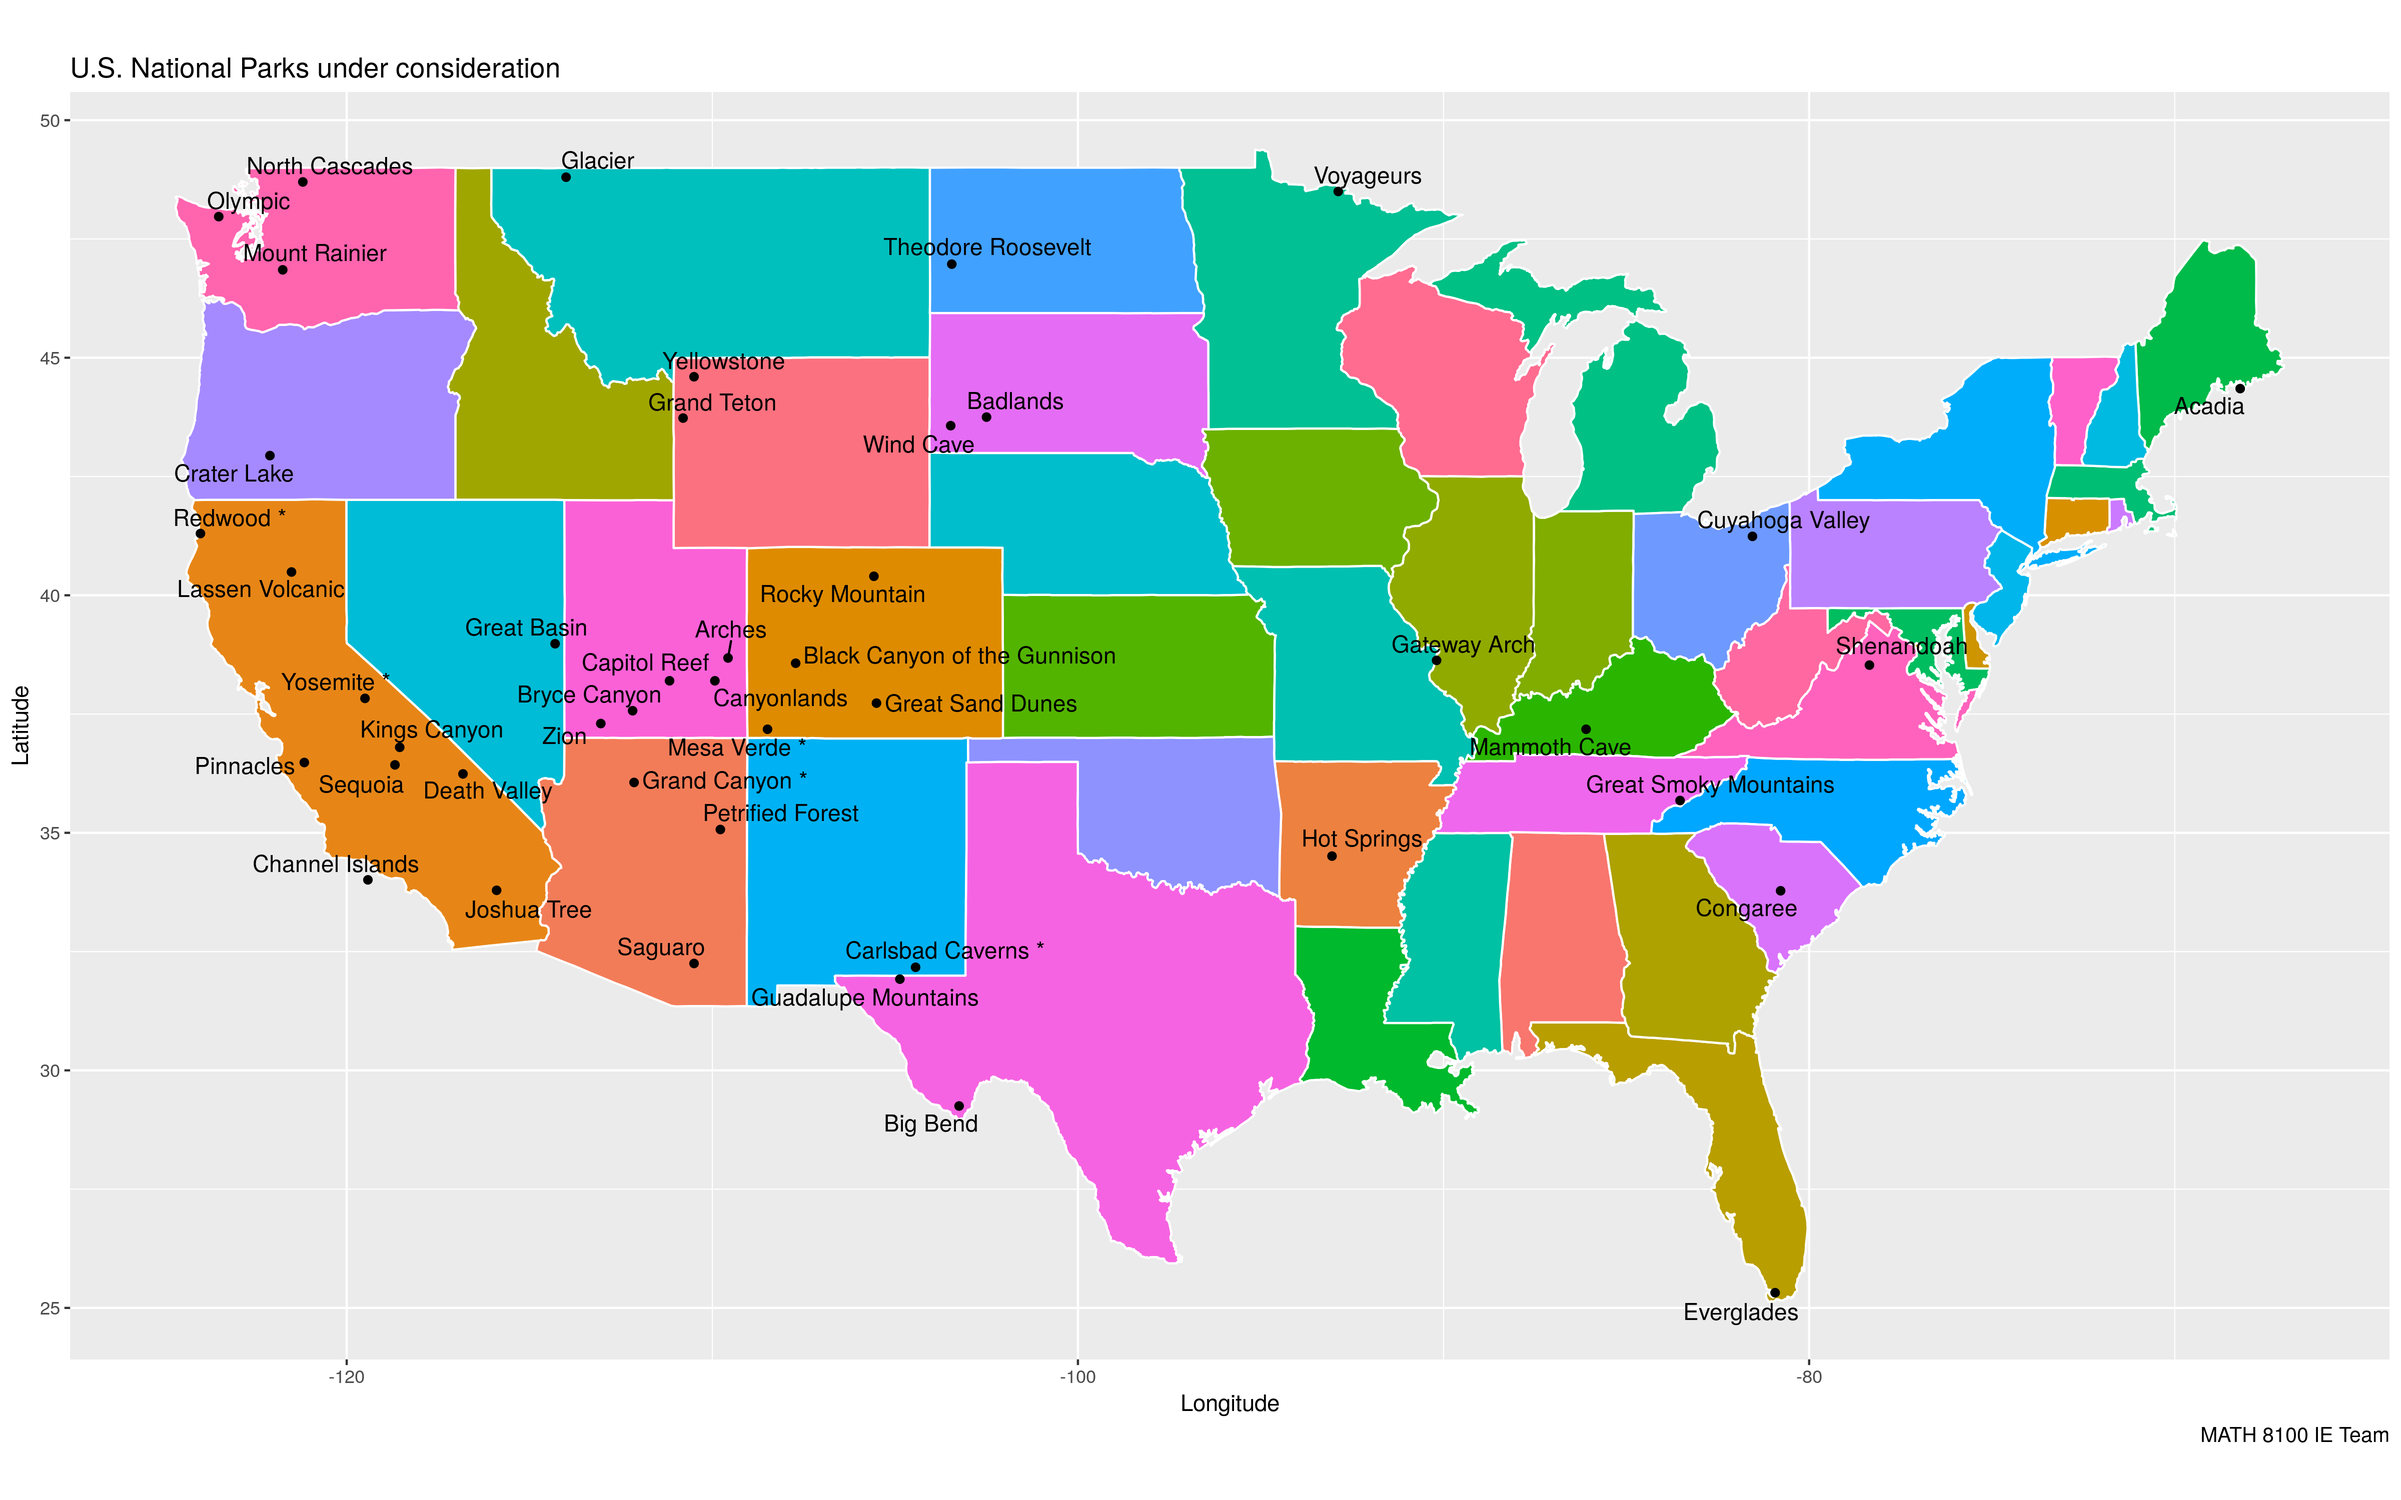
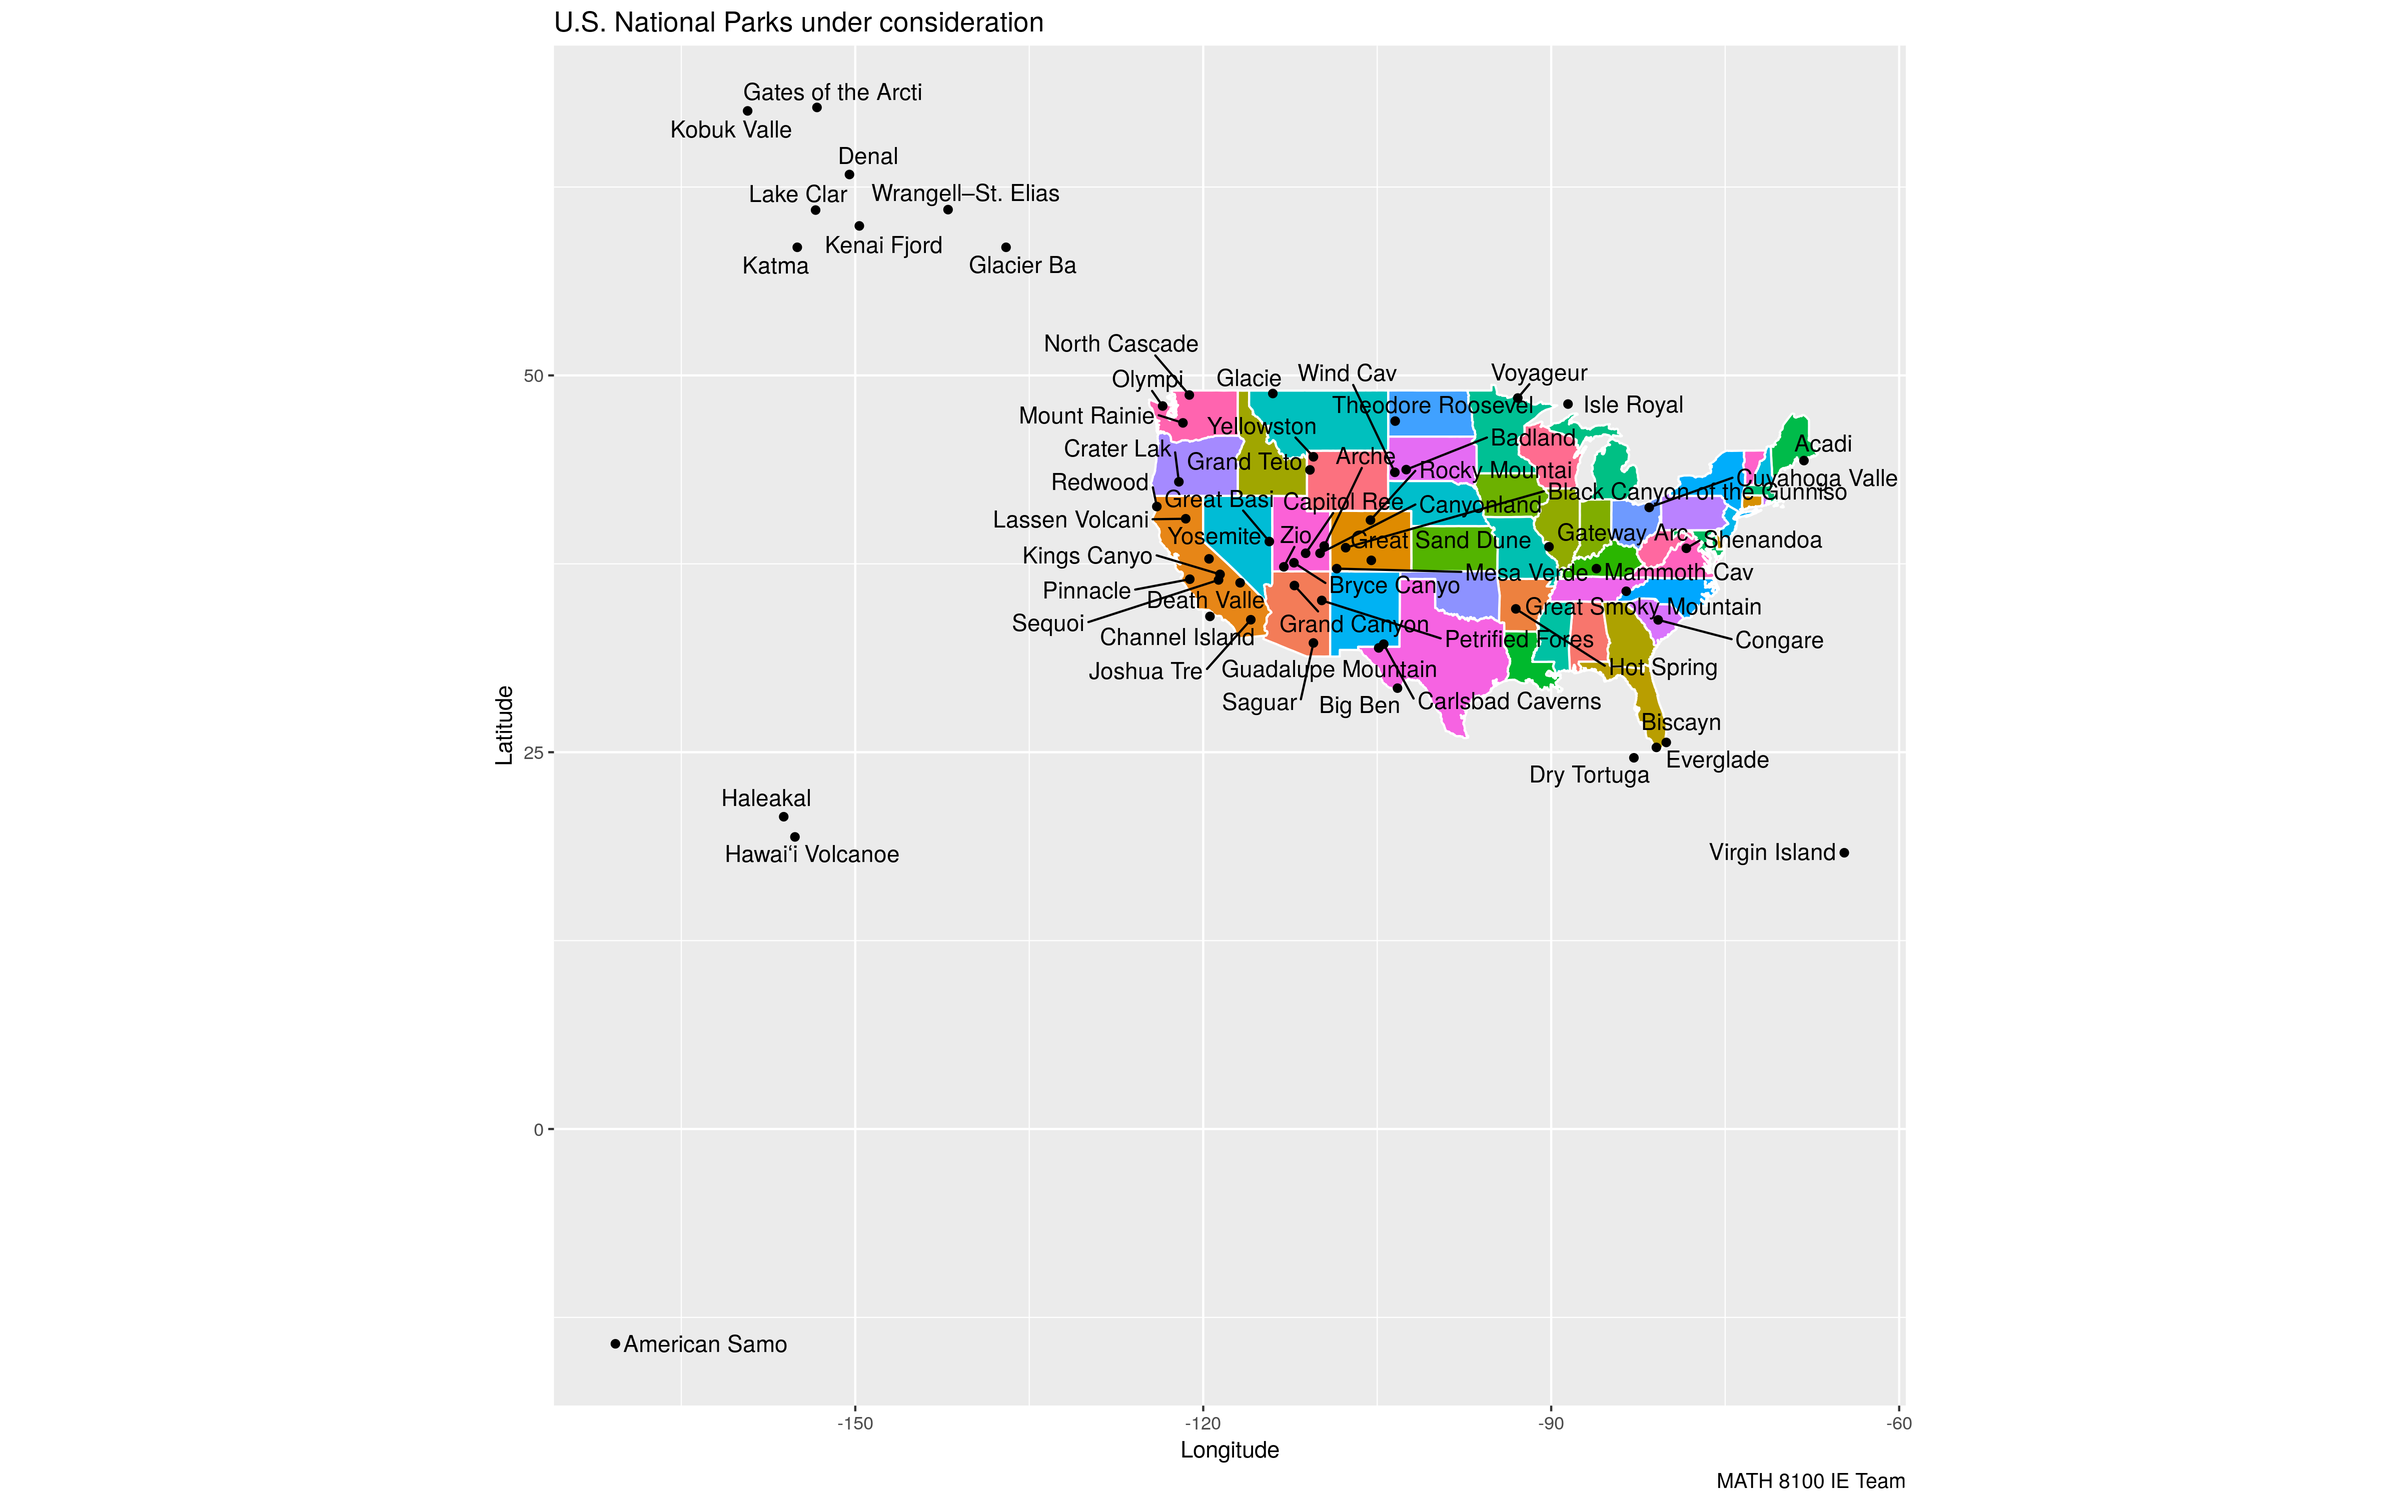
done with first approach to distances (straight line)

diff --git a/README.md b/README.md
@@ -7,7 +7,17 @@
 The project will consist of five problems in total.
 
 ### National Parks problem (no. 7)
-- TODO: park coordinates / distance matrix -- AB
+Problem folder is [NationalParks](./NationalParks/).
+- park coordinates / distance matrix -- AB: I have scraped the wiki page and downloaded parks coordinates; what is there:
+	+ all the data are saved in the [data](./NationalParks/data) folder.
+	+ I have dropped several parks: that were situated in Alaska, Hawaii and American Samoa (according to the problem directions by Dr. Yang) PLUS, additonally, parks that were on islands, viz., Virgin Islands, Dry Tortugas, Biscayne, Isle Royale;
+	+ `parks.png` is a map with the parks that I suggest to work with;
+	+ `parks.csv` is basic parks data (coordinates, location and description);
+	+ `dist_line.csv` is a distance matrix, from where to where, straight line distances, in km. **MURWAN, THIS IS THE FILE YOU NEED** 
+	+ all the aux code (in [R](https://www.r-project.org/)) is in the `getParks.R` file (I'll amend it as/if we move to road distances instead) 
+- Questions tbd:
+	+ if we'll need nice pics/routes on the map -- pls let me know, seems like it is not that difficult to do in R.
+
 - TODO: problem coding -- MS
 
 ### Ellipsoid method
